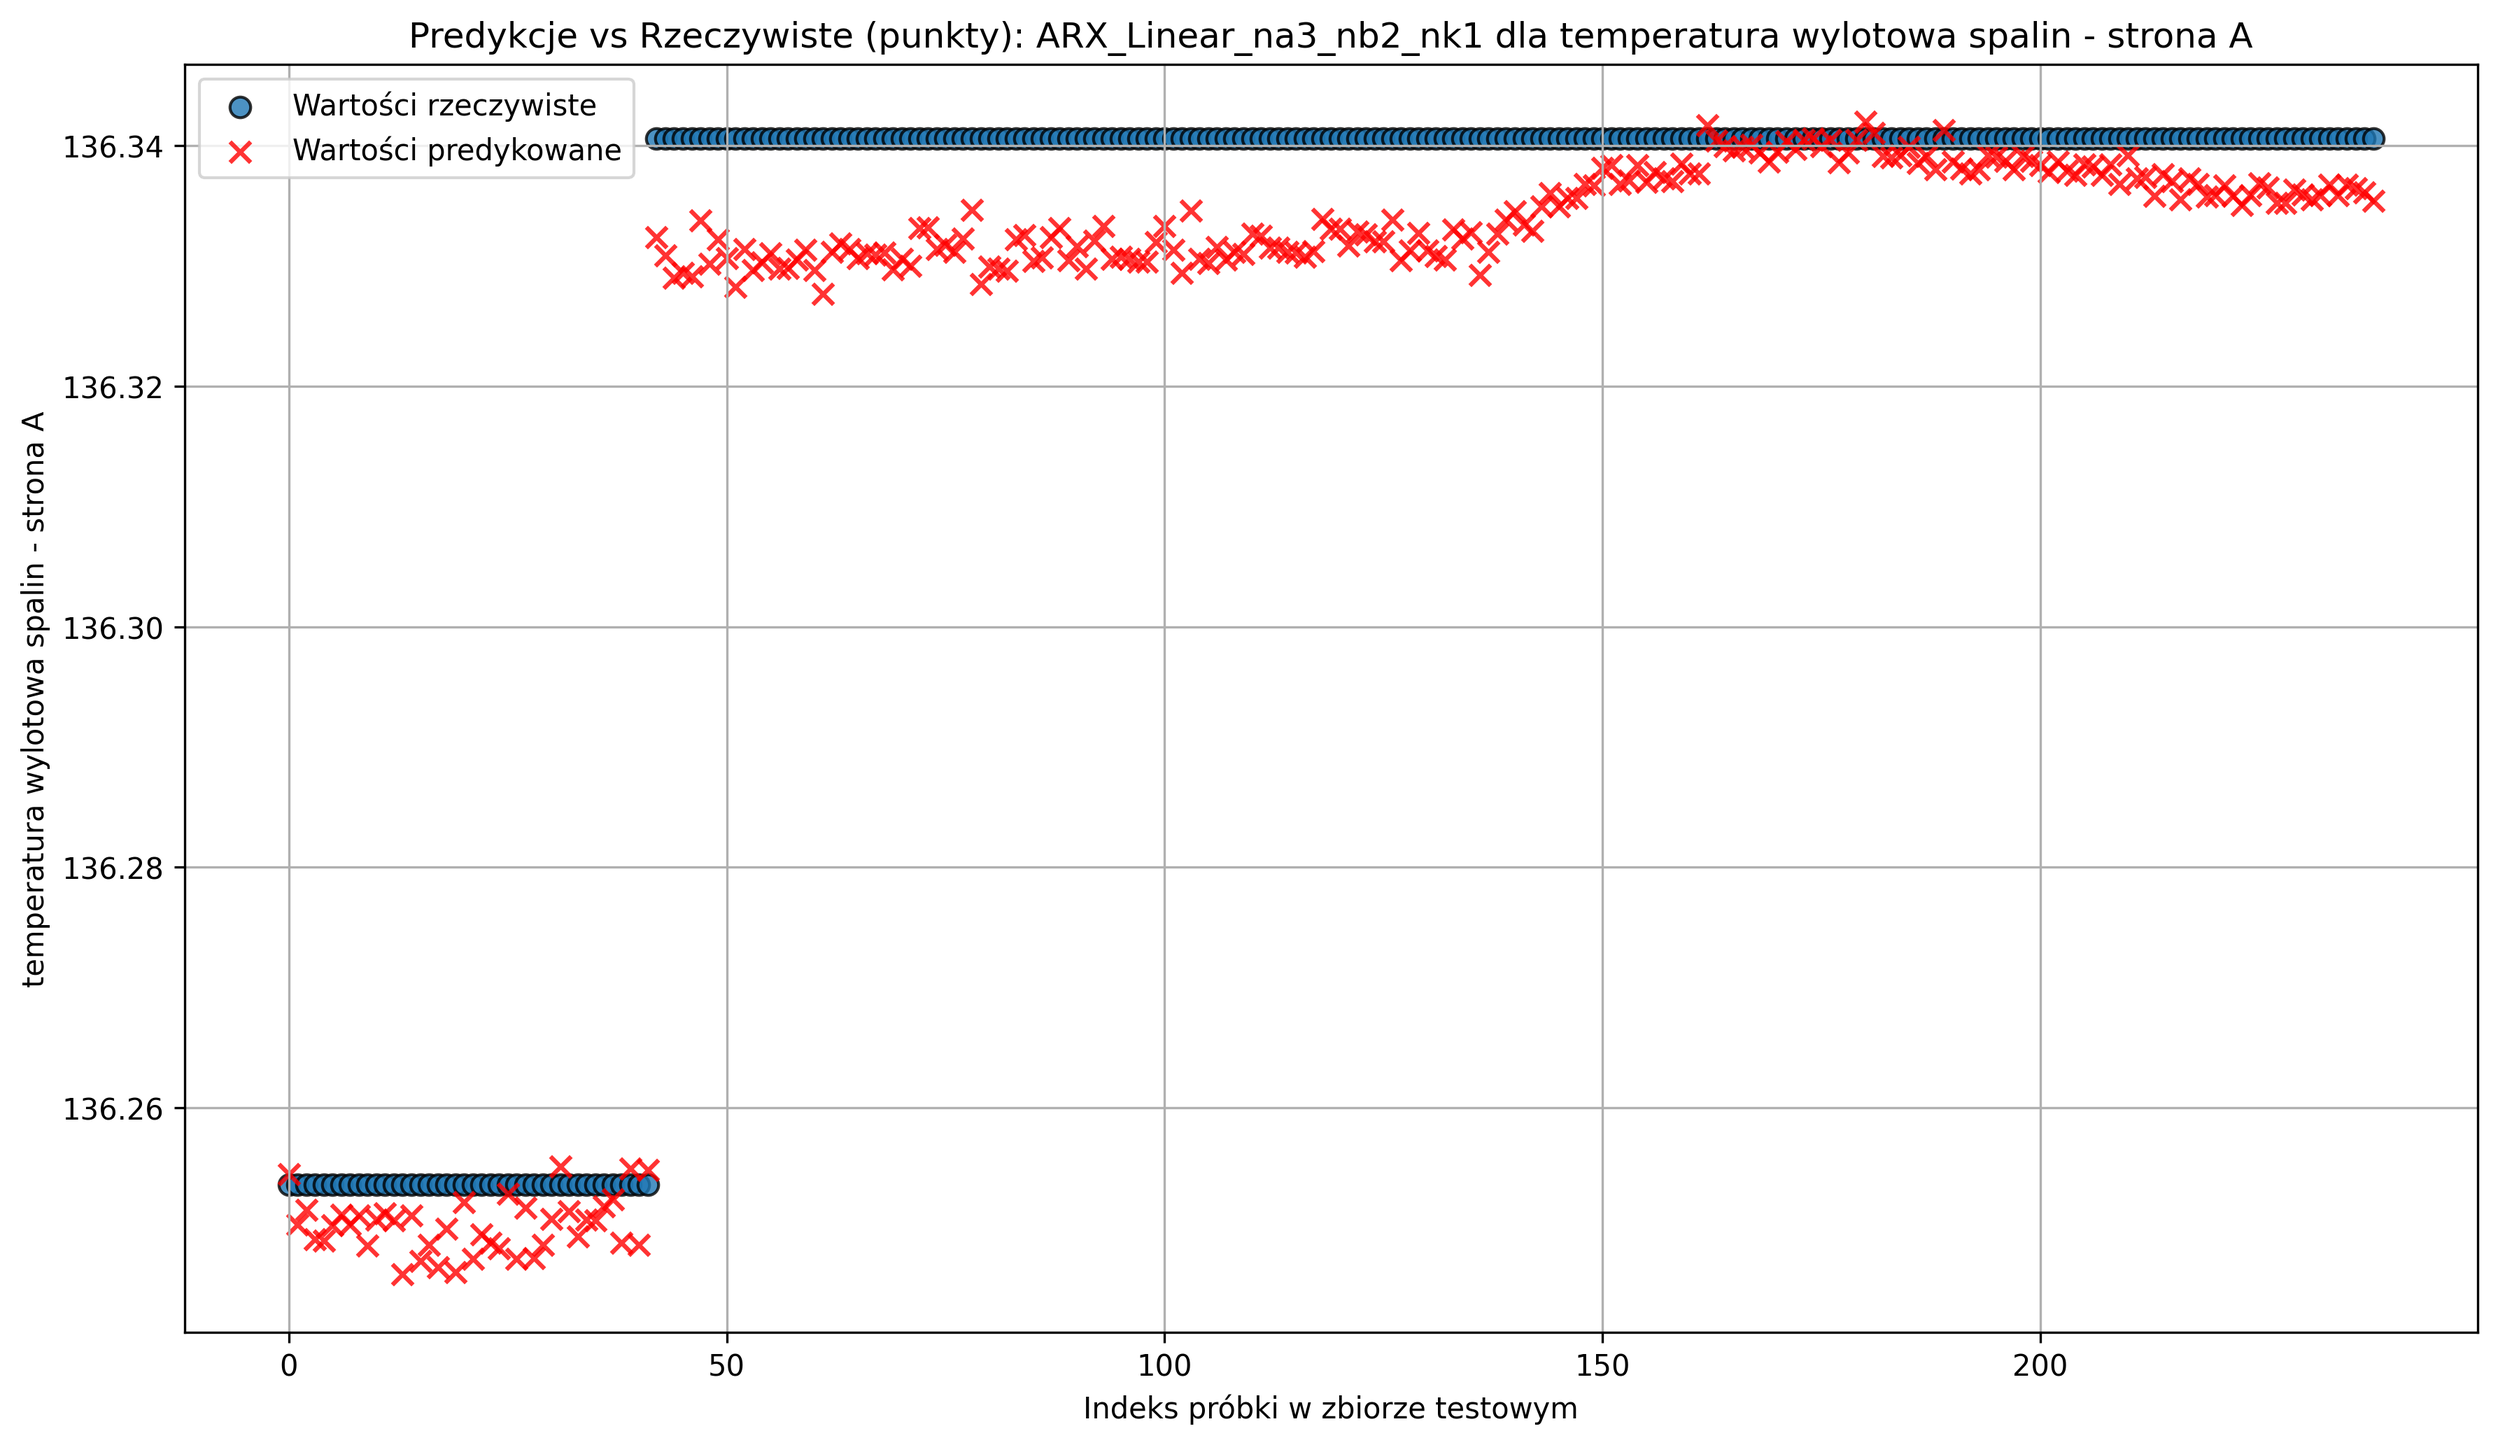
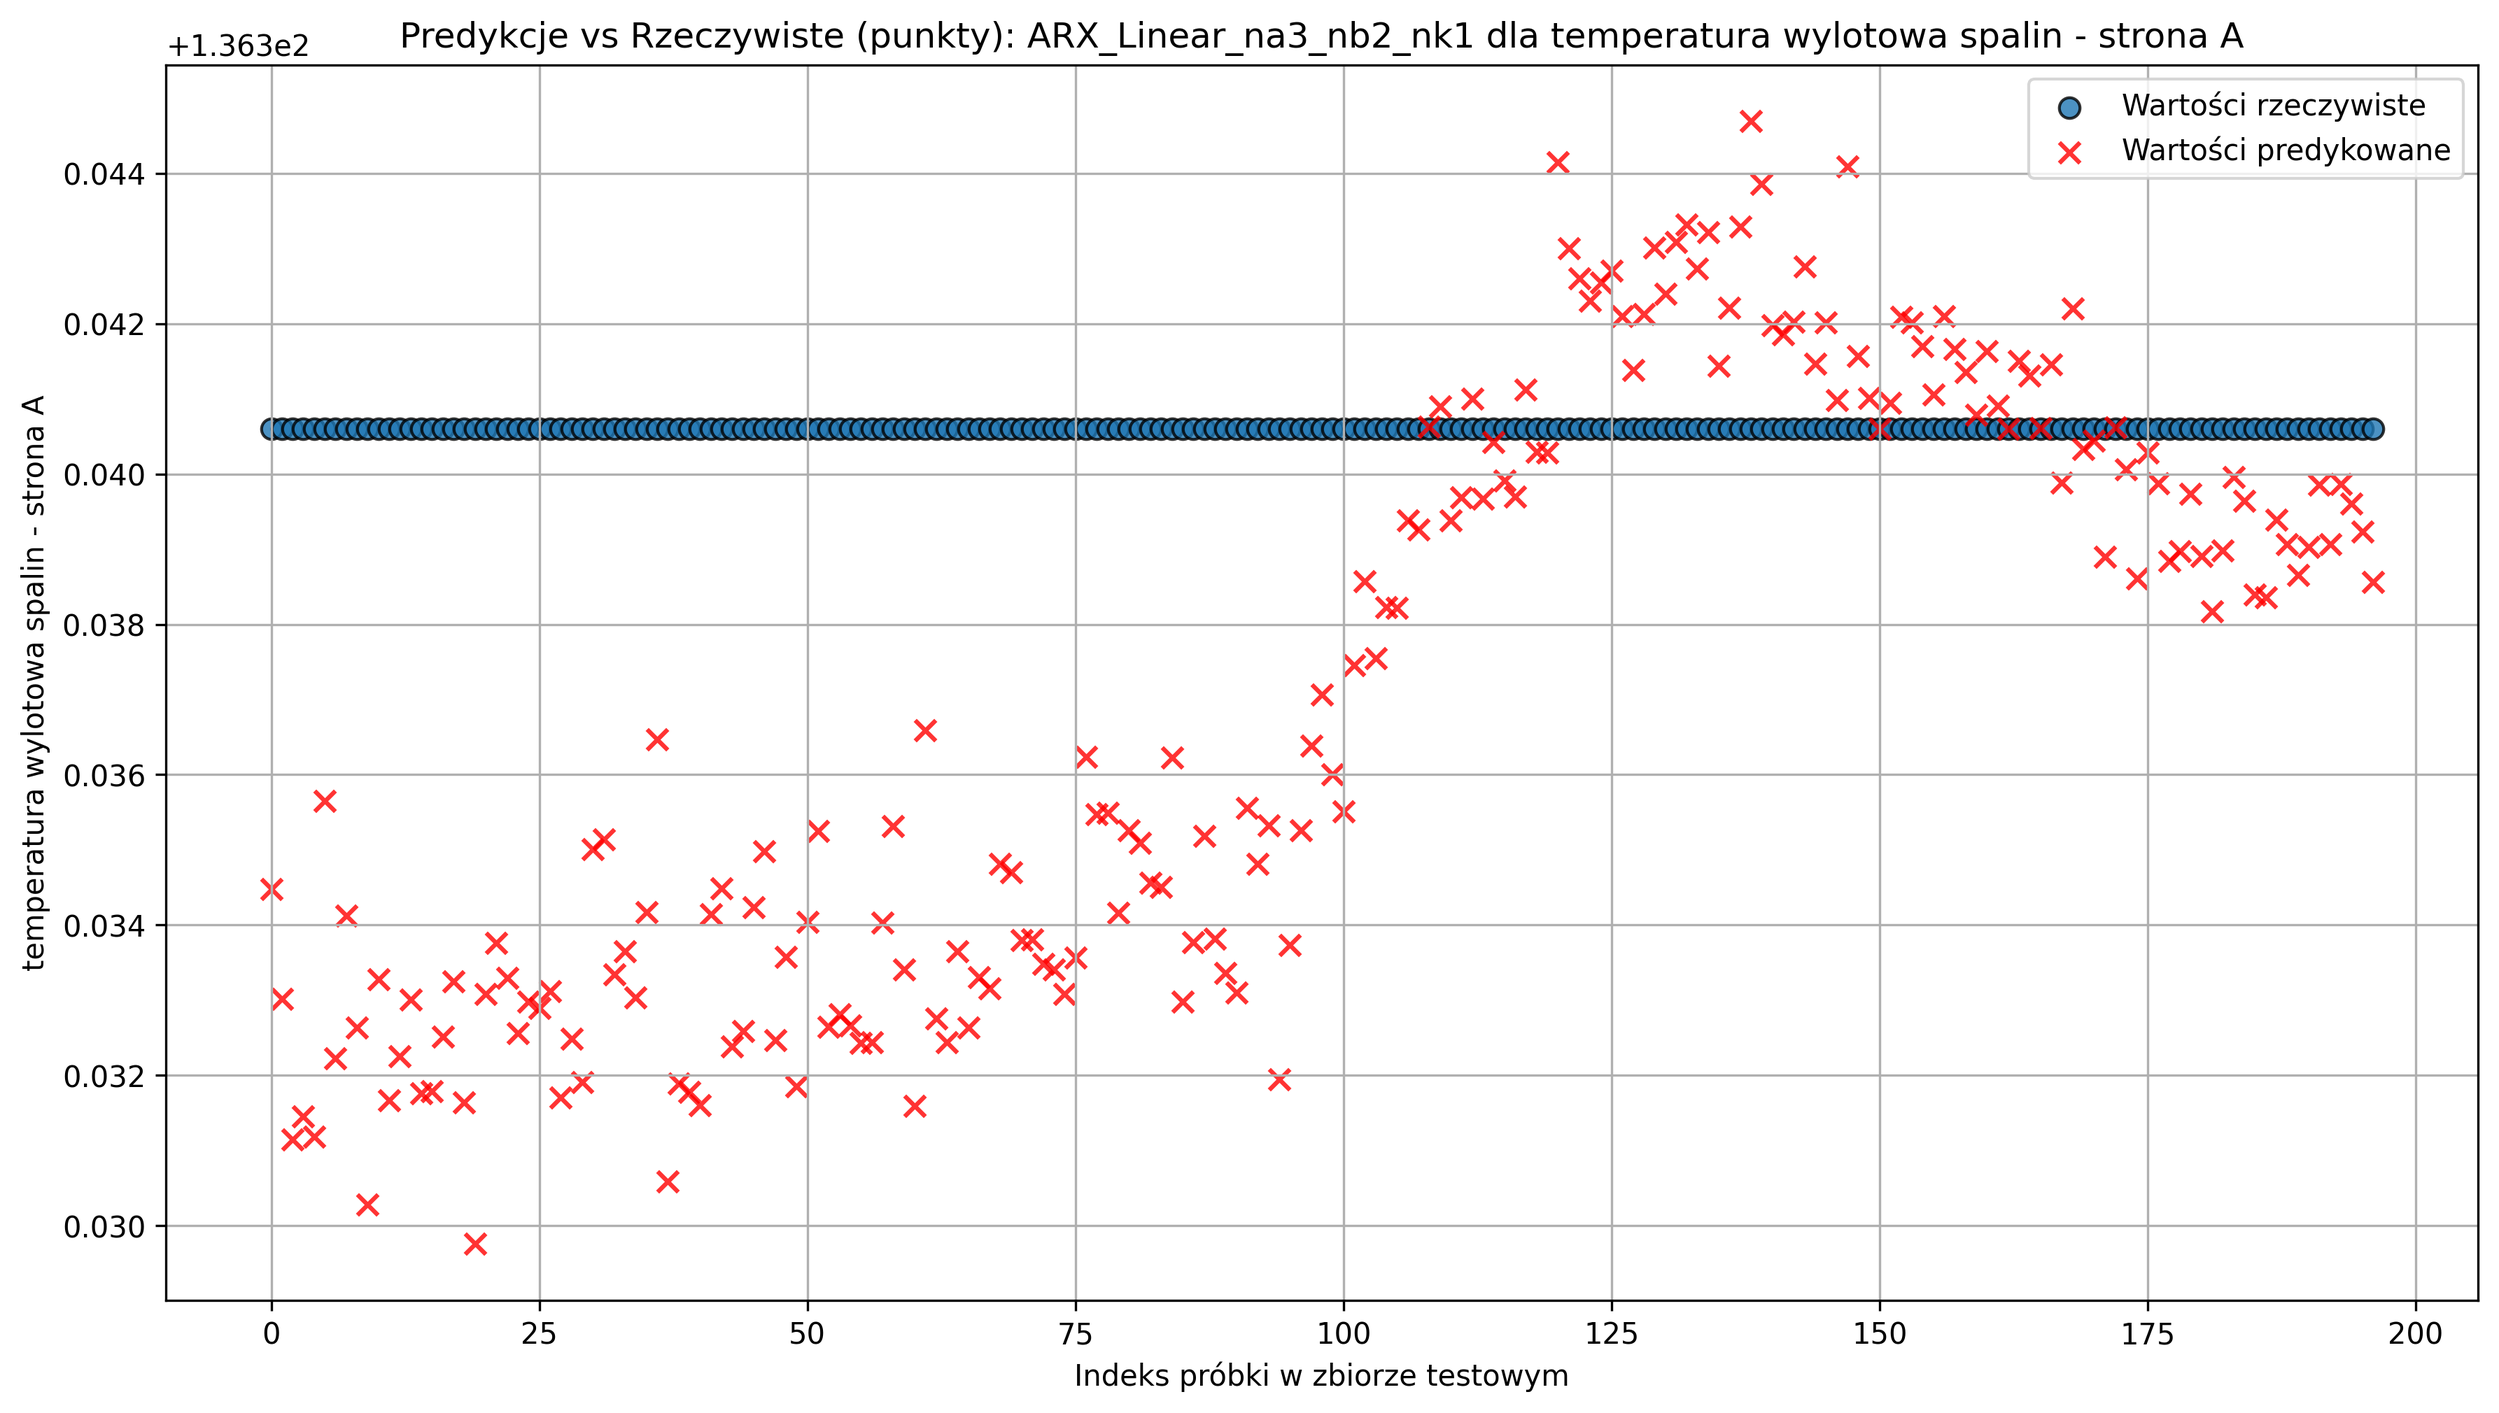
not working

diff --git a/src/modeling/advanced_models.py b/src/modeling/advanced_models.py
@@ -122,19 +122,23 @@ def train_evaluate_dynamic_arx_model(
     input_features: list,
     output_features: list,
     arx_params: dict,
-    model_type: str, # "dynamic_arx_linear" lub "dynamic_arx_polynomial"
+    model_type: str,
+    # NOWE PARAMETRY DO KONTROLI PODZIAŁU
+    train_sessions: list,
+    test_sessions: list,
     plots_dir: str,
     plot_results: bool = True
 ):
     """
     Kompleksowa funkcja do trenowania i oceny dynamicznego modelu ARX.
-    Cała logika jest tutaj, z dala od main.py.
+    Umożliwia ręczny podział danych na zbiory treningowe i testowe na podstawie sesji (dni).
     """
+    # ... (kod pobierania parametrów na, nb, nk, poly_degree pozostaje bez zmian) ...
     na = arx_params.get('na', 2)
     nb = arx_params.get('nb', 2)
     nk = arx_params.get('nk', 1)
     poly_degree = arx_params.get('poly_degree', 2)
-
+    
     print(f"\n--- Przygotowanie danych dla modelu dynamicznego ARX ---")
     
     active_inputs = [col for col in input_features if col in df.columns]
@@ -146,21 +150,36 @@ def train_evaluate_dynamic_arx_model(
         output_cols=active_outputs,
         na=na, nb=nb, nk=nk
     )
+    
+    # ZMIANA: RĘCZNY PODZIAŁ DANYCH ZAMIAST train_test_split
+    # Łączymy macierze X i y z powrotem, aby łatwo filtrować po 'session_id'
+    full_arx_df = pd.concat([X_arx, y_arx], axis=1)
+    # Dodajemy z powrotem 'session_id' - musi mieć ten sam indeks co X_arx i y_arx
+    full_arx_df['session_id'] = df.loc[full_arx_df.index, 'session_id']
 
-    if X_arx.empty:
-        print("Nie udało się stworzyć danych ARX. Modelowanie przerwane.")
+    # Filtrowanie danych treningowych i testowych na podstawie list sesji
+    train_df = full_arx_df[full_arx_df['session_id'].isin(train_sessions)]
+    test_df = full_arx_df[full_arx_df['session_id'].isin(test_sessions)]
+
+    if train_df.empty or test_df.empty:
+        print("Błąd: Zbiór treningowy lub testowy jest pusty. Sprawdź nazwy sesji.")
         return
 
-    print(f"Stworzono macierz regresorów ARX o kształcie: {X_arx.shape}")
+    X_train = train_df[X_arx.columns]
+    y_train_df = train_df[y_arx.columns]
+    
+    X_test = test_df[X_arx.columns]
+    y_test_df = test_df[y_arx.columns]
+    
+    print(f"Dane treningowe z sesji: {train_sessions}. Liczba próbek: {len(X_train)}")
+    print(f"Dane testowe z sesji: {test_sessions}. Liczba próbek: {len(X_test)}")
 
+    # ... (reszta funkcji, pętla 'for target_col in active_outputs:', pozostaje niemal bez zmian) ...
     for target_col in active_outputs:
         print(f"\n--- Modelowanie ARX dla celu: {target_col} ---")
         
-        y_target = y_arx[target_col]
-
-        X_train, X_test, y_train, y_test = train_test_split(
-            X_arx, y_target, test_size=0.2, shuffle=False, random_state=42
-        )
+        y_train = y_train_df[target_col]
+        y_test = y_test_df[target_col]
         
         # Budowanie pipeline'u modelu
         if model_type == "dynamic_arx_linear":

diff --git a/src/main.py b/src/main.py
@@ -9,7 +9,7 @@ from id.eda import exploratory_data_analysis, plot_downsampled_data_comparison
 
 def main():
     # --- Config ---
-    MODEL_TYPE = "dynamic_arx_polynomial"  # "linear", "polynomial", "random_forest", "gradient_boosting", "dynamic_arx_linear", "dynamic_arx_polynomial"
+    MODEL_TYPE = "dynamic_arx_linear"  # "linear", "polynomial", "random_forest", "gradient_boosting", "dynamic_arx_linear", "dynamic_arx_polynomial"
     
     # Dynamic ARX model configuration
     ARX_PARAMS = {
@@ -165,13 +165,19 @@ def main():
             "temperatura za wtryskiem pary wtórnej - strona P"
         ]
         
-        # JEDNO WYWOŁANIE DO CAŁEJ LOGIKI MODELU ARX
+        TRAIN_DAYS = ['d2', 'd3']
+        TEST_DAYS = ['d5', 'd6']
+        
+        # JEDNO WYWOŁANIE DO CAŁEJ LOGIKI MODELU ARX - ZMIANA ARGUMENTÓW
         train_evaluate_dynamic_arx_model(
             df=combined_df,
             input_features=input_features,
             output_features=output_features,
             arx_params=ARX_PARAMS,
             model_type=MODEL_TYPE,
+            # NOWE ARGUMENTY
+            train_sessions=TRAIN_DAYS,
+            test_sessions=TEST_DAYS,
             plots_dir=PLOTS_DIR,
             plot_results=PLOT_RESULTS
         )
